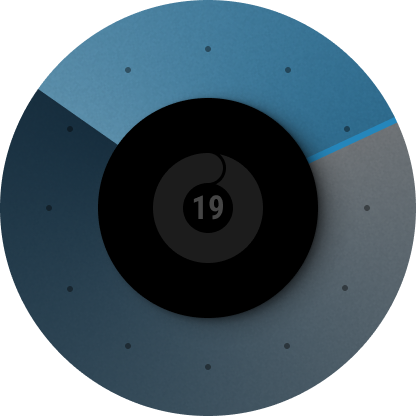
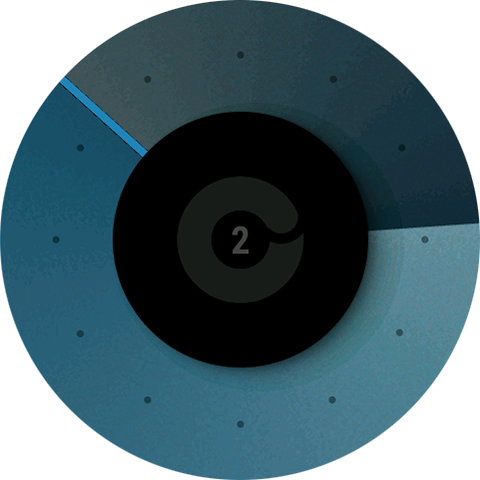
fix celeste graphics

diff --git a/celeste/watchface/index.r.layout.js b/celeste/watchface/index.r.layout.js
@@ -1,4 +1,4 @@
-import { DIGITS, SCREEN, TARGET, TARGET_DOT_SIZE, TIME_SRC } from '../utils/constants';
+import { DIGITS, SCREEN, TARGET, TIME_SRC } from '../utils/constants';
 
 export const BACKGROUND_PROPS = {
   x: 0,
@@ -94,7 +94,7 @@ export const TARGET_ARC_PROGRESS_PROPS = {
   center_x: SCREEN.centerX,
   center_y: SCREEN.centerY,
   radius: TARGET.radius,
-  start_angle: 360 + TARGET_DOT_SIZE.angleStart,
+  start_angle: 0,
   color: 0x1c1c1c,
   line_width: TARGET.width,
   level: 100,

diff --git a/celeste/watchface/index.js b/celeste/watchface/index.js
@@ -1,4 +1,3 @@
-import { TARGET_DOT_SIZE } from '../utils/constants';
 import {
   BACKGROUND_PROPS,
   CENTER_AOD_PROPS,
@@ -56,7 +55,7 @@ WatchFace({
 
     const update = () => {
       const { current, target } = hmSensor.createSensor(hmSensor.id.STEP);
-      const angle = 360 + TARGET_DOT_SIZE.angleEnd + (360 * current) / target;
+      const angle = (360 * current) / target;
 
       arcProgress.setProperty(hmUI.prop.MORE, {
         ...TARGET_ARC_PROGRESS_PROPS,

diff --git a/celeste/utils/constants.js b/celeste/utils/constants.js
@@ -37,11 +37,6 @@ export const TARGET = {
   width: (px(126) - px(58)) / 2,
 };
 
-export const TARGET_DOT_SIZE = {
-  angleStart: -1 * Math.floor(radiansToDegrees(Math.atan(TARGET.width / 2 / TARGET.radius))),
-  angleEnd: Math.floor(radiansToDegrees(Math.atan(TARGET.width / 2 / TARGET.radius))),
-};
-
 export const DIGITS = {
   width: px(18),
   height: px(32),

diff --git a/celeste/README.md b/celeste/README.md
@@ -1,23 +1,23 @@
 # Celeste Watchface
-Watchface for Amazfit GTR Mini
+Watchface for ZeppOS wathces
 
-![demo](./demo.png)
+![demo](./demo-gtr-mini.png)
 
 ## Features
 
 **Main features**
-- inspired by [ZIIIRO Celeste analog watch](https://www.ziiiro.com/shop/celeste-black-mono/)
-- time is indicated by gradients (it's 10:11 in the screen above for example)
-- progress circle for steps in the center part
-- date in the center
+- Inspired by [ZIIIRO Celeste analog watch](https://www.ziiiro.com/shop/celeste-black-mono/)
+- Time is indicated by gradients (for example, it's 02:52 in the screen above)
+- Central progress circle for steps
+- Date display in the center
 
-**Model compatibility:** Amazfit GTR Mini (round, 416 x 416 pixels)
+**Model compatibility:** Amazfit GTR Mini, GTR 4, GTR 3 Pro, T-Rex 2 and other round ZeppOS watches
 
-**AOD:** No
+**AOD:** Yes
 
 **Tap-zones:** No
 
-**Language:** English
+**Language:** All
 
 ## Download ⏬
 
